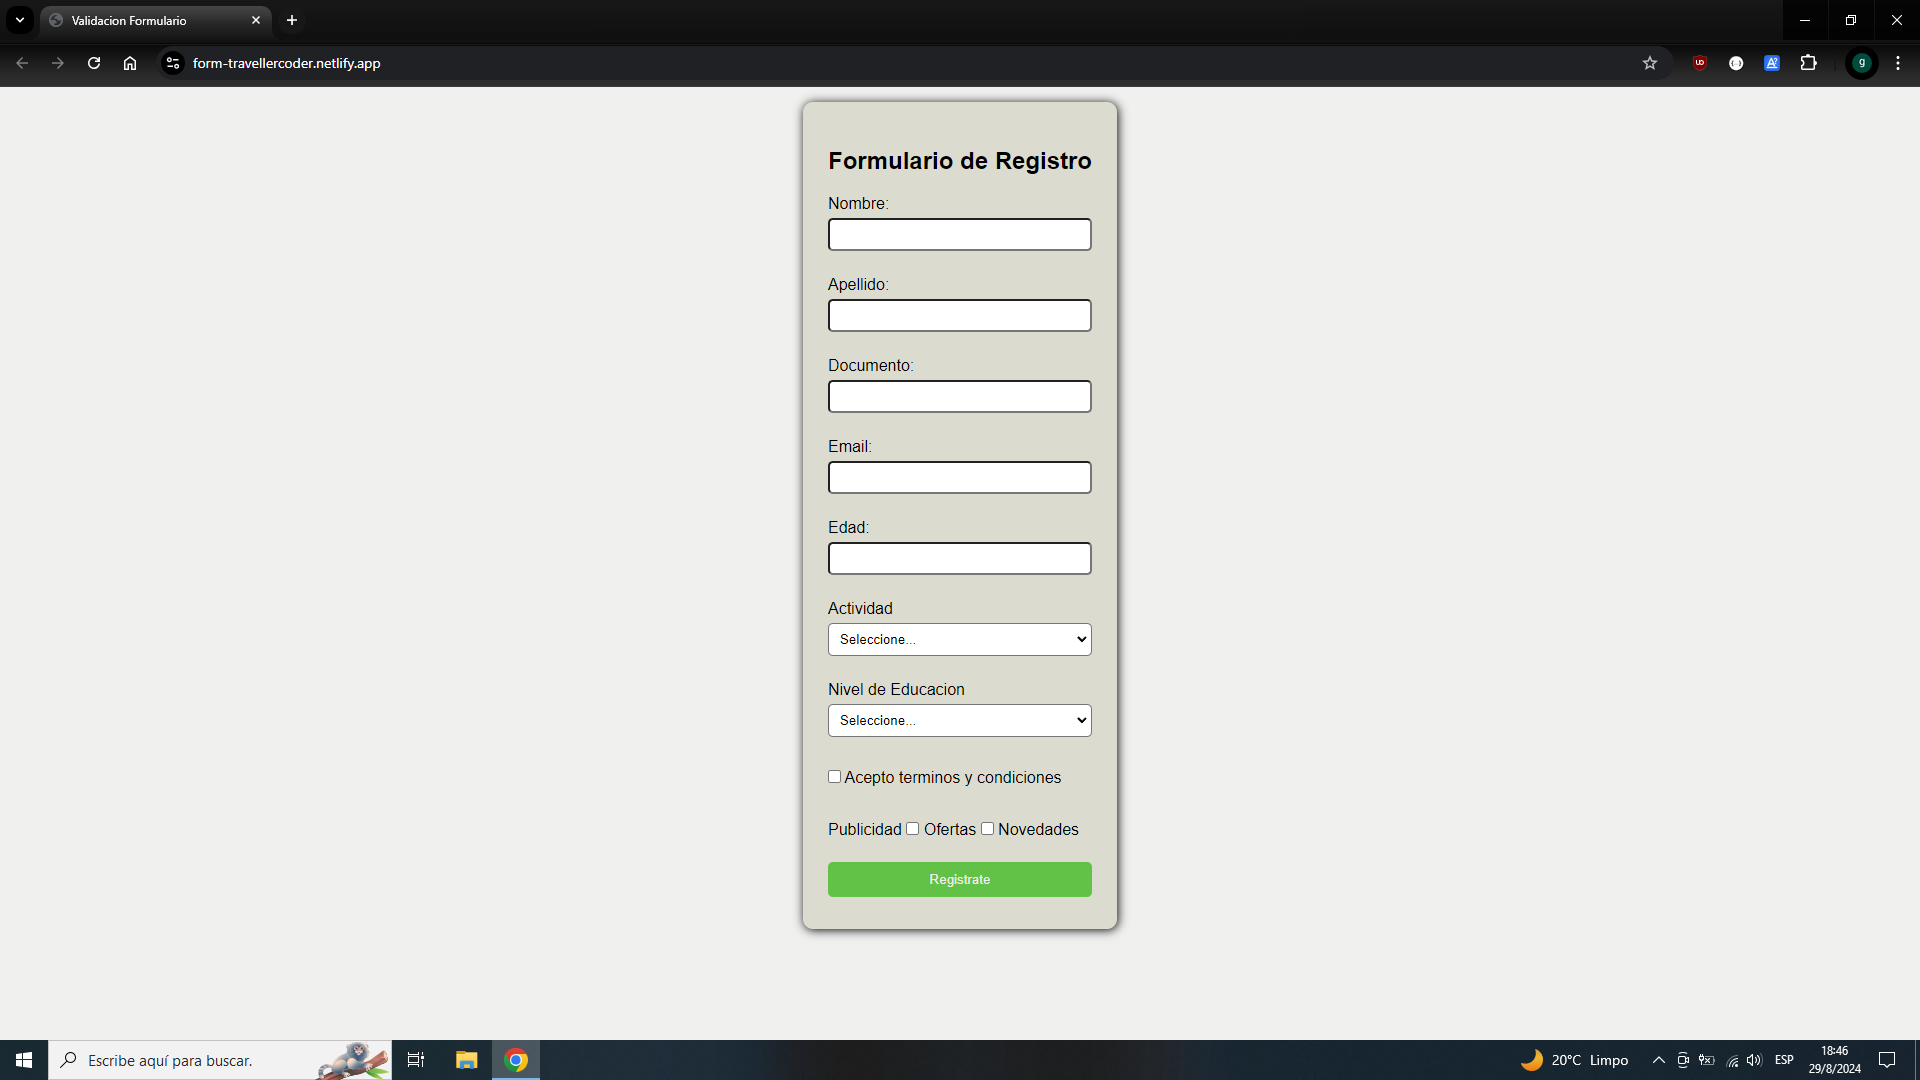
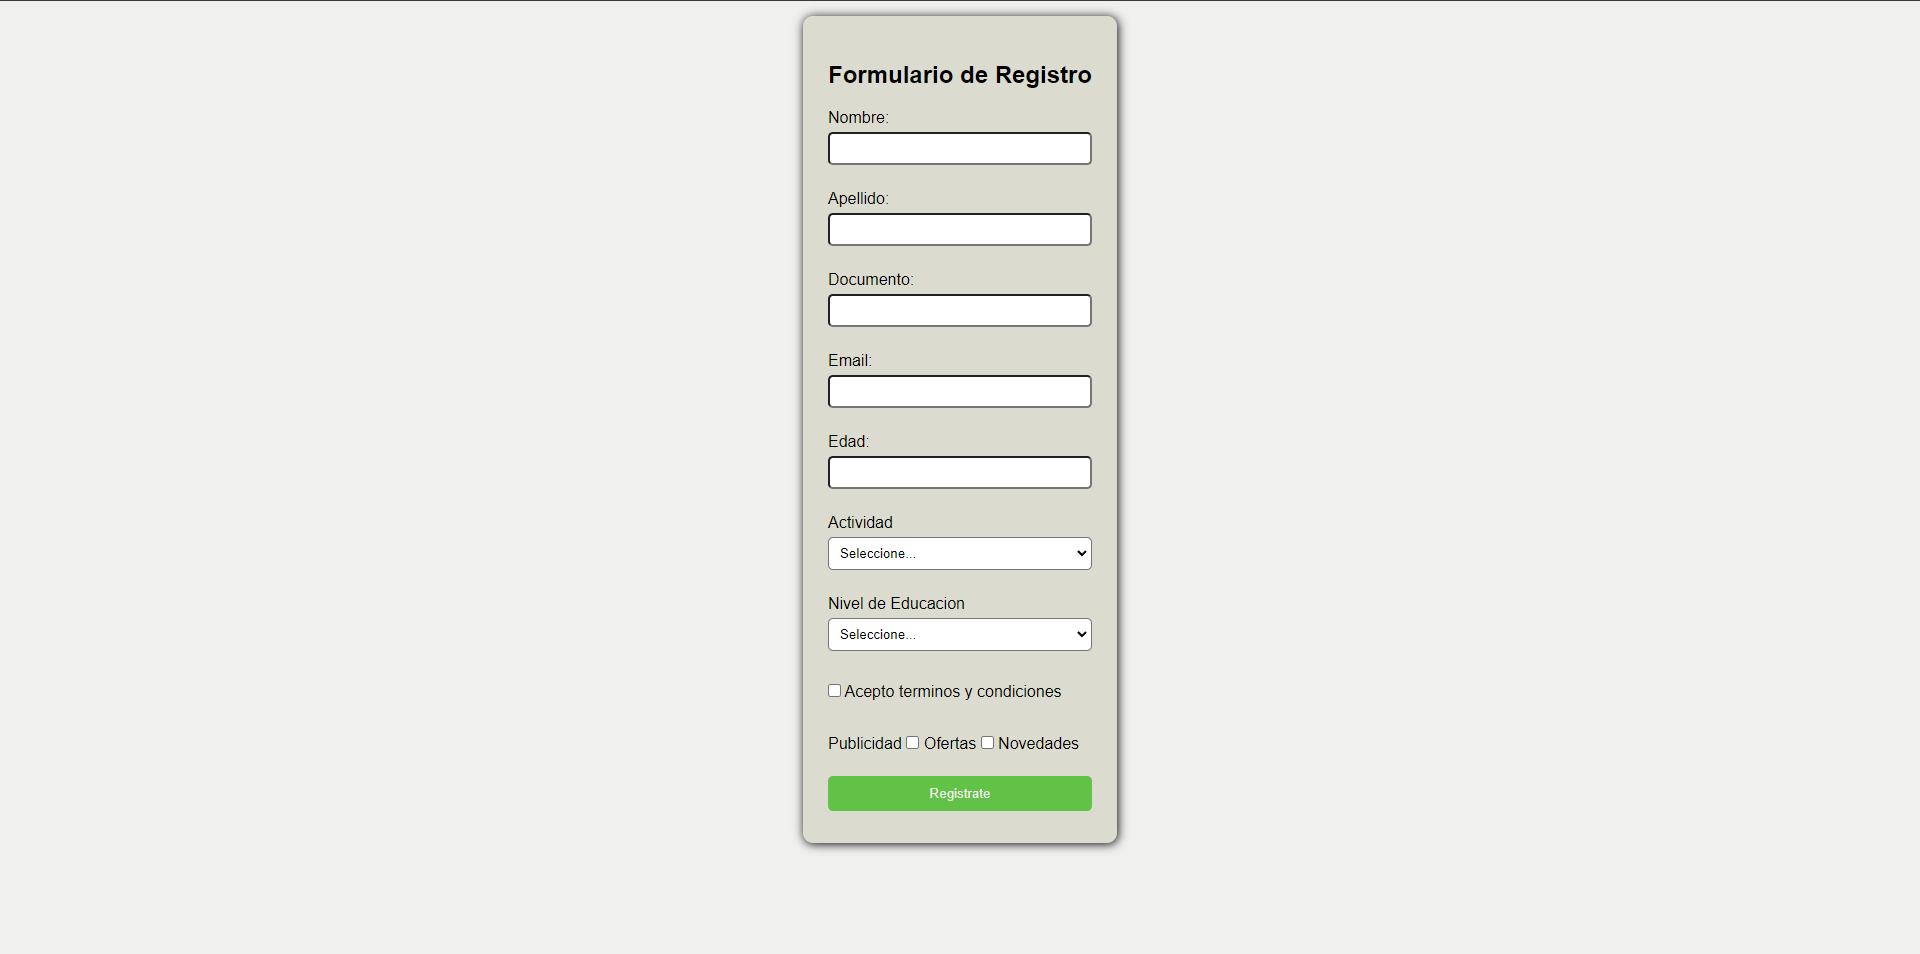
cambio de background

diff --git a/public/css/styles.css b/public/css/styles.css
@@ -13,7 +13,7 @@ html {
     color: white;
 }
 body{
-    background-color: #000000;
+    background: linear-gradient(120deg, #000000 0%, #1b1d1f 25%,  #424749 50%, #2f383d 75%, #373a3a 100%);
 }
 
 h2 {
@@ -104,7 +104,7 @@ header {
 }
 
 .hero {
-    width: 100vw;
+    width: 95vw;
     height: 100%;
     background: linear-gradient(200.59deg, #000000 0%, #002742 25%,  #005d93 50%, #009df0 75%, #00e3ff 100%);
     position: relative;
@@ -114,6 +114,8 @@ header {
     gap: 2rem;
     padding-bottom: 15px;
     z-index: -1;
+    border-radius: 8px;
+    margin: auto;
 }
 
 section {

diff --git a/views/english.html b/views/english.html
@@ -43,7 +43,7 @@
           <!-- SECCION HERO -->
           <section class="hero">
             <div class="hero-text">
-                <h4>Full Stack Dev</h4>
+                <h4>Front End Dev</h4>
                 <h3>JavaScript NodeJS</h3>
                 <h1>Traveller Coder</h1>
                 <p>Web development for companies and freelancers. <br>
